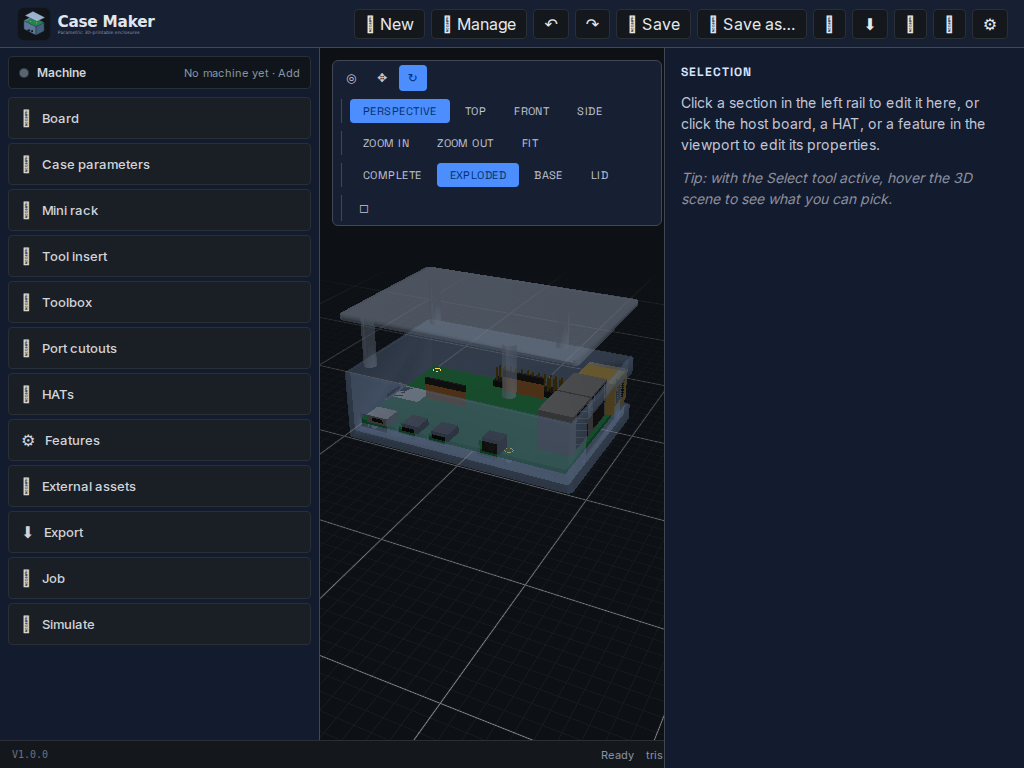
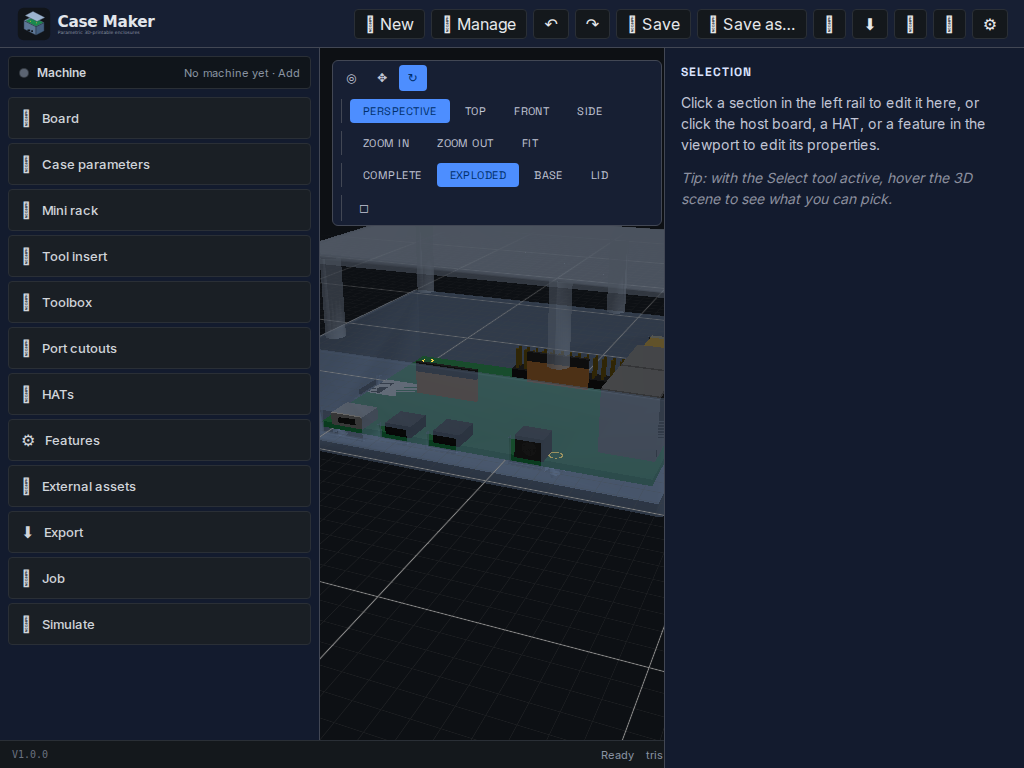
test(e2e): the machine-rail spec asserts #821's sentence, not #820's draft (#820 × #821)
#820 landed before #821, and its e2e asserted the sentence #820 drafted. #821 replaced that
sentence with its own constant, so on the merged stack the spec compared the page against words it
no longer prints. It now asserts #821's phrase (this page has no machine relay, so it cannot drive
a machine) — the unit spec still holds the constant itself — and the two screenshots are
regenerated from this run.

diff --git a/casemaker-app/tests/e2e/machineRail.spec.ts b/casemaker-app/tests/e2e/machineRail.spec.ts
@@ -27,9 +27,10 @@ test('#820 — the rail machine row opens Manage › Machines, and the web build
 
   // Manage › Machines, on the card a person adds a machine from…
   await expect(page.getByTestId('manage-machine-none')).toBeVisible();
-  // …and the web build's one sentence, in #821's words: this page has no machine relay.
+  // …and the web build's one sentence (#821's words: this page has no machine relay, so it cannot
+  // drive a machine). The unit spec asserts the constant itself; this asserts it reached the page.
   await expect(page.getByTestId('manage-machine-web-hint')).toContainText(
-    'This page was served without the machine relay — open Case Maker from a Case Maker server or the desktop app to connect a machine.',
+    'This page was served without the machine relay, so it cannot drive a machine',
   );
 
   await page.screenshot({ path: path.join(OUT, 'machine-rail.png') });
